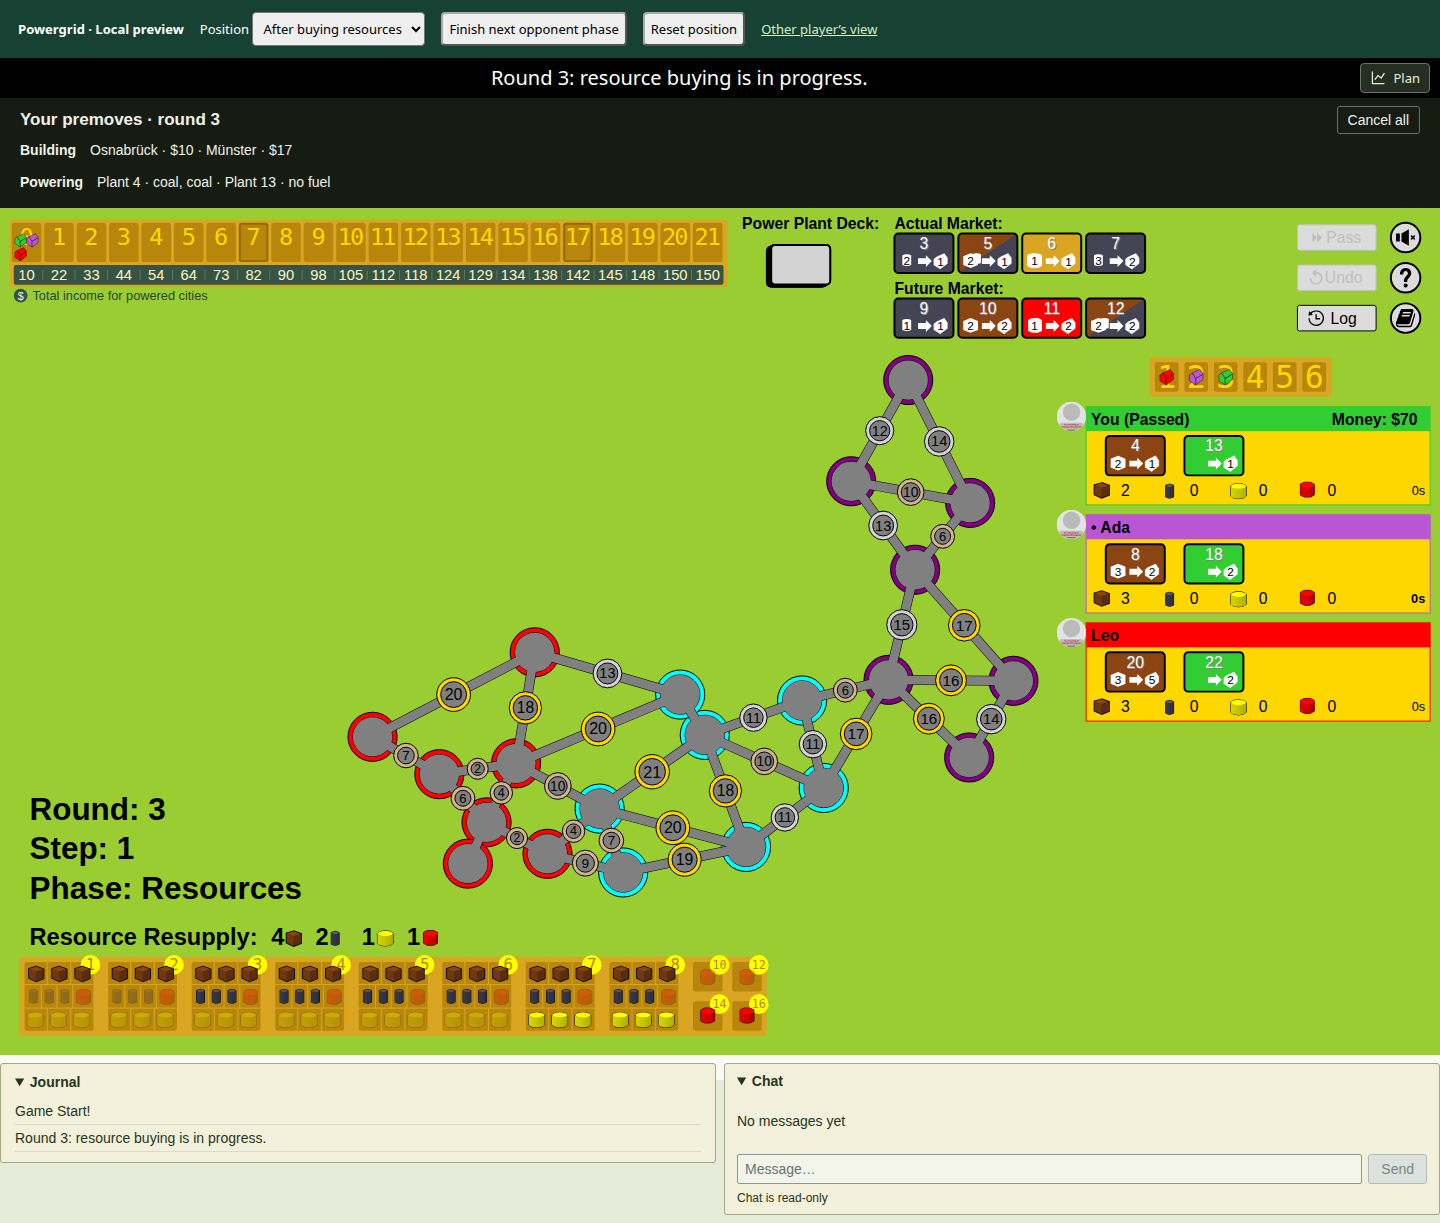
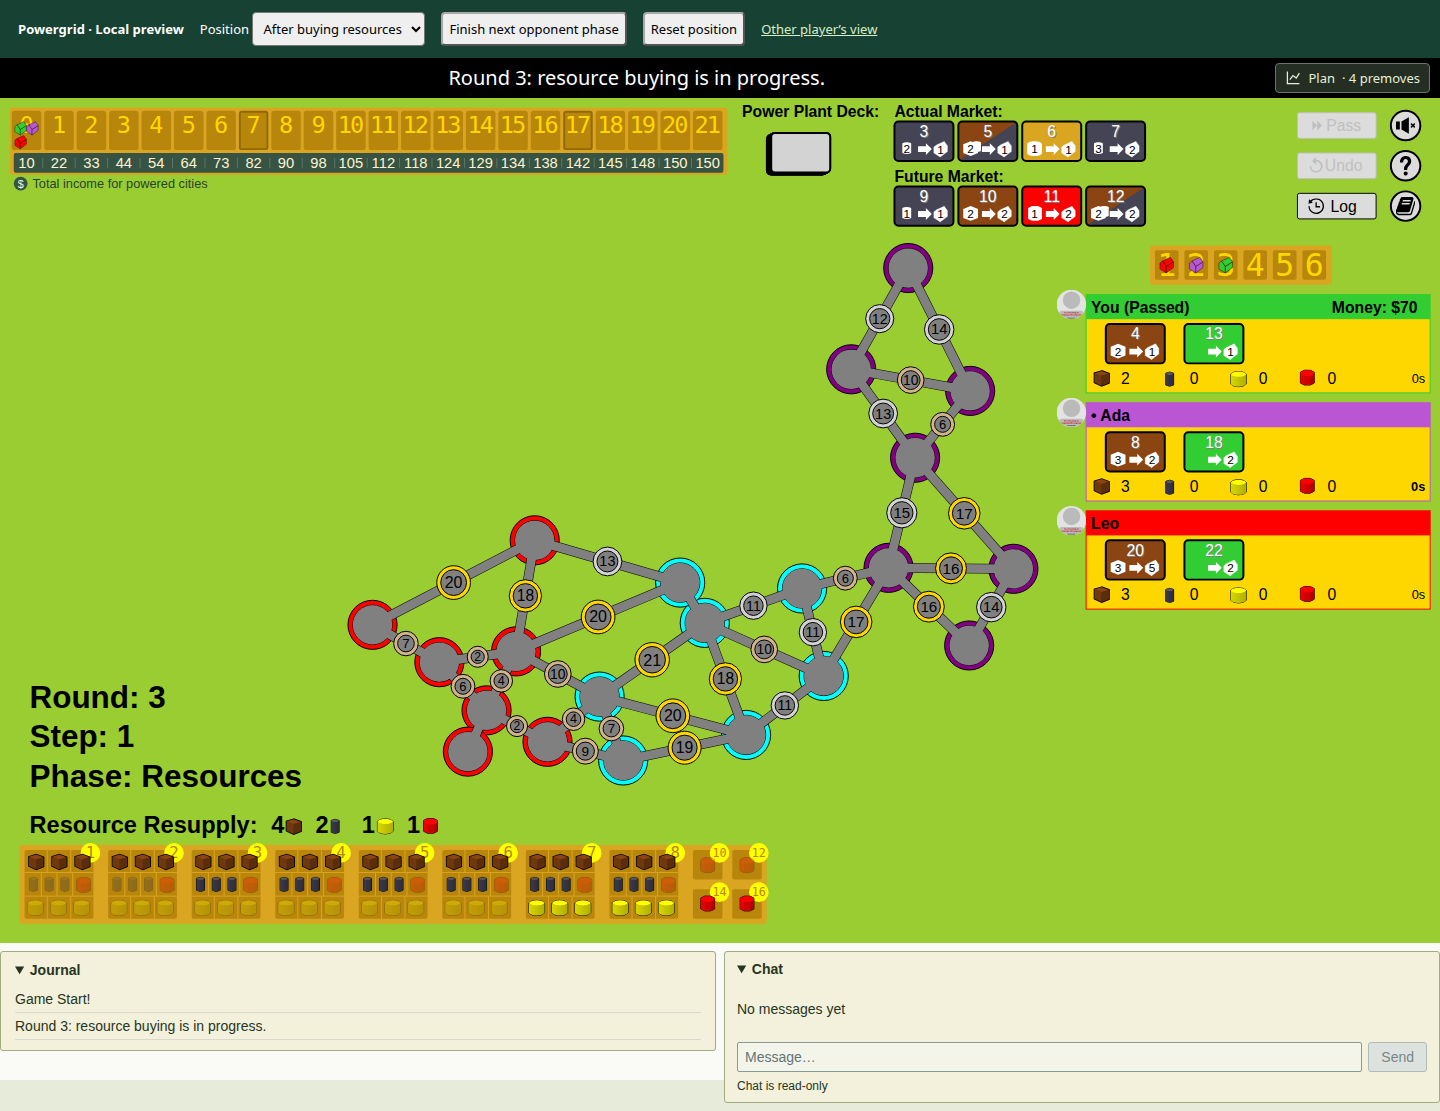
Show saved premoves in Plan button and use board Undo

diff --git a/viewer/src/components/RoundPlanner.vue b/viewer/src/components/RoundPlanner.vue
@@ -1,5 +1,5 @@
 <template>
-    <section class="round-planner" :class="{ active: plan, compact: !plan && !hasQueue }" aria-label="Round planning">
+    <section class="round-planner" aria-label="Round planning">
         <template v-if="plan">
             <div class="planner-strip">
                 <div class="planner-controls">
@@ -8,7 +8,6 @@
                         title="Use the normal board controls. No move is sent until you confirm a queue. The preview does not predict hidden plant draws."
                         >Preview only</span
                     >
-                    <button :disabled="!plan.entries.length" @click="$emit('clear')">Start over</button>
                     <button v-if="plan.state.phase === 'Auction' && !discarding" @click="$emit('skip-plant')">
                         Continue without buying
                     </button>
@@ -25,7 +24,7 @@
                     >
                         Validate
                     </button>
-                    <button v-if="hasQueue" :disabled="pending" @click="$emit('cancel')">Cancel queued moves</button>
+                    <button v-if="hasQueue" :disabled="pending" @click="$emit('cancel')">Cancel all</button>
                 </div>
             </div>
             <p v-if="!queueable && queueHint" class="muted queue-hint">{{ queueHint }}</p>
@@ -33,31 +32,12 @@
                 Choose a plant, then use the bid control to enter an assumed winning price. No bid is sent.
             </p>
             <p v-if="liveChanged" class="notice">
-                The live game changed. Costs and fuel will be checked again before queueing. Start over to recalculate
-                the preview.
+                The live game changed. Costs and fuel will be checked again before queueing.
             </p>
             <p v-if="plan.finalScoring" class="muted">
                 The end-game threshold is reached. Final scoring uses the most cities you can power with your fuel;
                 there is no normal income payment.
             </p>
-        </template>
-        <template v-else-if="hasQueue">
-            <div class="planner-heading">
-                <strong>Your premoves · round {{ queue.round }}</strong>
-                <div class="planner-controls">
-                    <button :disabled="pending" @click="$emit('cancel')">Cancel all</button>
-                </div>
-            </div>
-            <div v-for="phase in queue.phases" :key="phase.phase" class="queued-phase">
-                <strong>{{ phaseName(phase.phase) }}</strong
-                ><span>{{
-                    phase.moves
-                        .filter((move) => move.name !== 'Pass')
-                        .map(describeMove)
-                        .join(' · ') ||
-                    (phase.phase === 'Building' ? 'Finish without building' : 'Finish without powering')
-                }}</span>
-            </div>
         </template>
         <p v-if="queue && queue.notice" role="status" class="notice">{{ queue.notice }}</p>
         <p v-if="pending" role="status">Saving premoves…</p>
@@ -68,7 +48,6 @@
 import Vue from 'vue';
 import type { RoundPlan } from 'powergrid-engine/src/planning';
 import type { PremovePlan } from 'powergrid-engine/src/premoves';
-import { describeMove } from '../util/round-plan';
 export default Vue.extend({
     props: {
         plan: { type: Object as () => RoundPlan | null, default: null },
@@ -80,7 +59,6 @@ export default Vue.extend({
         error: String,
         queueHint: String,
     },
-    methods: { describeMove, phaseName: (phase: string) => (phase === 'Bureaucracy' ? 'Powering' : phase) },
     computed: {
         hasQueue(): boolean {
             return !!this.queue?.phases.length;
@@ -93,37 +71,18 @@ export default Vue.extend({
 });
 </script>
 <style scoped>
-.round-planner {
-    align-self: stretch;
-    box-sizing: border-box;
-    width: 100%;
-    font-family: Arial, sans-serif;
-    background: #171c13;
-    color: #f0f2e9;
-    border-bottom: 2px solid #9acd32;
-    padding: 8px 20px 10px;
-    font-size: 14px;
-    text-align: left;
+.round-planner,
+.planner-strip {
+    display: contents;
 }
-.round-planner.compact {
-    display: flex;
-    align-items: center;
-    justify-content: flex-end;
-    gap: 16px;
-    background: #171c13;
-    padding: 6px 14px;
-    flex-wrap: wrap;
-}
-.planner-heading,
 .planner-controls {
     display: flex;
     align-items: center;
-    justify-content: space-between;
     gap: 10px;
     flex-wrap: wrap;
-}
-.planner-heading strong {
-    font-size: 17px;
+    padding: 5px 10px 5px 0;
+    font: 14px Arial, sans-serif;
+    color: #f0f2e9;
 }
 p {
     margin: 6px 0;
@@ -153,21 +112,11 @@ button:disabled {
 .primary:hover {
     background: #b0df52;
 }
-.round-planner.active,
-.planner-strip {
-    display: contents;
-}
-.round-planner.active .planner-controls {
-    padding: 5px 10px 5px 0;
-}
-.round-planner.active > p {
+.round-planner > p {
     flex-basis: 100%;
     padding: 0 12px;
     margin: 0 0 8px;
     font: 13px Arial, sans-serif;
-}
-.planner-controls {
-    justify-content: flex-start;
 }
 .muted {
     color: #bcc7ad;
@@ -185,28 +134,7 @@ button:focus-visible {
 .queue-hint {
     margin: 7px 0 0;
 }
-.queued-phase {
-    display: flex;
-    gap: 14px;
-    align-items: baseline;
-    flex-wrap: wrap;
-    padding: 8px 0;
-}
-.queued-phase > span {
-    flex: 1;
-}
-.queued-phase button {
-    font-size: 12px;
-}
 .notice {
     color: #efcb88;
-}
-@media (max-width: 600px) {
-    .round-planner {
-        padding: 12px;
-    }
-    .planner-heading strong {
-        font-size: 16px;
-    }
 }
 </style>

diff --git a/viewer/src/components/Game.vue b/viewer/src/components/Game.vue
@@ -1,6 +1,6 @@
 <template>
     <div :class="['game', { fitToScreen: preferences.fitToScreen && !stacked, stacked: stacked }]">
-        <div class="planner-header" :class="{ planning: roundPlan }">
+        <div class="planner-header" :class="{ planning: hasPlanPanel }">
             <div class="statusBar">
                 <span class="status-message">{{ getStatusMessage() }}</span>
                 <button
@@ -16,7 +16,10 @@
                     <svg width="16" height="16" viewBox="0 0 20 20" aria-hidden="true">
                         <path d="M3 2v15h15M6 12l4-5 4 3 4-6" fill="none" stroke="currentColor" stroke-width="1.6" />
                     </svg>
-                    {{ canPreparePremoves ? 'Plan' : 'Simulate' }}
+                    {{ canPreparePremoves ? 'Plan' : 'Simulate'
+                    }}<span v-if="queuedMoveCount">
+                        · {{ queuedMoveCount }} {{ queuedMoveCount === 1 ? 'premove' : 'premoves' }}
+                    </span>
                 </button>
                 <button v-if="roundPlan" class="plan-entry" @click="stopPlanning()">Return to live game</button>
             </div>
@@ -30,7 +33,6 @@
                 :pending="!!pendingPlanId"
                 :error="planningError"
                 :live-changed="planningChanged"
-                @clear="startPlanning(true)"
                 @skip-plant="sendMove({ name: 'Pass', data: true })"
                 @queue="submitRoundPlan"
                 @cancel="cancelPhasePlan"
@@ -1107,7 +1109,6 @@ export default class Game extends Vue {
     get hasPlanPanel(): boolean {
         return !!(
             this.roundPlan ||
-            this.myPhaseQueue?.phases.length ||
             this.myPhaseQueue?.notice ||
             this.planningError ||
             this.pendingPlanId
@@ -1115,6 +1116,13 @@ export default class Game extends Vue {
     }
     get myPhaseQueue() {
         return this.committedState?.automation?.plans[this.player!];
+    }
+    get queuedMoveCount(): number {
+        return (this.myPhaseQueue?.phases || []).reduce(
+            // An otherwise empty phase still queues the decision to finish it.
+            (count, phase) => count + Math.max(1, phase.moves.filter((move) => move.name !== MoveName.Pass).length),
+            0
+        );
     }
     get planningChanged(): boolean {
         if (!this.roundPlan || !this.planningBase || !this.committedState) return false;
@@ -1155,10 +1163,10 @@ export default class Game extends Vue {
             return 'Purchases are simulation only. Finish buying resources in the live game before queueing.';
         return '';
     }
-    startPlanning(restart = false) {
+    startPlanning() {
         if (!this.canPlanRound) return;
         try {
-            const base = restart || this.roundPlan ? this.committedState! : this.G!;
+            const base = this.roundPlan ? this.committedState! : this.G!;
             this.planningBase = copyState(base);
             this.roundPlan = startRoundPlan(base, this.player!);
             this.planningError = '';

diff --git a/viewer/src/util/round-plan.ts b/viewer/src/util/round-plan.ts
@@ -1,4 +1,4 @@
-import { Move, MoveName, Phase } from 'powergrid-engine';
+import { MoveName, Phase } from 'powergrid-engine';
 import type { RoundPlan } from 'powergrid-engine/src/planning';
 import type { PhasePlan } from 'powergrid-engine/src/premoves';
 
@@ -9,28 +9,4 @@ export function completedPhases(plan: RoundPlan): PhasePlan[] {
             ? [{ phase: phase as Phase.Building | Phase.Bureaucracy, moves }]
             : [];
     });
-}
-export function describeMove(move: Move): string {
-    switch (move.name) {
-        case MoveName.Build:
-            return `${move.data.name} · $${move.data.price}`;
-        case MoveName.UsePowerPlant:
-            return `Plant ${move.data.powerPlant}${
-                move.data.resourcesSpent.length ? ' · ' + move.data.resourcesSpent.join(', ') : ' · no fuel'
-            }`;
-        case MoveName.Pass:
-            return 'Finish phase';
-        case MoveName.ChoosePowerPlant:
-            return `Consider plant ${move.data}`;
-        case MoveName.Bid:
-            return `Assume purchase for $${move.data}`;
-        case MoveName.BuyResource:
-            return `Buy ${move.data.resource}`;
-        case MoveName.DiscardPowerPlant:
-            return `Discard plant ${move.data}`;
-        case MoveName.DiscardResources:
-            return `Discard ${move.data}`;
-        default:
-            return move.name;
-    }
 }

diff --git a/docs/premoves/README.md b/docs/premoves/README.md
@@ -1,10 +1,10 @@
 # Planning and premoves
 
-The existing black status bar offers **Simulate** during auctions/resource buying and **Plan** once resource buying is finished. Both use the normal board controls. All money information stays on the player board, including the balance after projected income. The board’s Undo control and Start over allow trying another purchase or route; there is one plan, limited to the remaining phases of the current round.
+The existing black status bar offers **Simulate** during auctions/resource buying and **Plan** once resource buying is finished. Both use the normal board controls. All money information stays on the player board, including the balance after projected income. The board’s Undo control allows trying another purchase or route; there is one plan, limited to the remaining phases of the current round.
 
 Plant bids are assumed winning prices in the simulation. Resource purchases use today's prices and storage limits. Neither can be queued. The preview does not predict other players' decisions or hidden plant draws, so building leaves the plant market and public deck indicator unchanged. Final scoring uses available power capacity without awarding normal income. Australia’s uranium mine sales are excluded from projected city income because their price depends on other players' sales.
 
-After real resource buying, finish a simulated building and/or powering phase with **Done**, then select **Validate**. Each queued phase includes its ending pass. A phase already due plays immediately when validated; later phases wait for the player's turn. The saved queue can be reopened with Plan or cancelled after reload, and execution does not require an open browser.
+After real resource buying, finish a simulated building and/or powering phase with **Done**, then select **Validate**. Each queued phase includes its ending pass. A phase already due plays immediately when validated; later phases wait for the player's turn. The Plan button shows the number of saved premoves and reopens them on the board, where Undo edits the preview and Cancel all clears the saved queue, including after reload, and execution does not require an open browser.
 
 Each city keeps its exact previewed price. The server rechecks every action against the current position, and commits a phase only if all its moves are legal. An occupied/unaffordable city, a changed price, or missing fuel stops the queue without partially spending on that phase. Already completed phases remain played. Manual moves replace the queue for that phase; later queued phases remain. Queues expire at the round boundary or game end.
 
